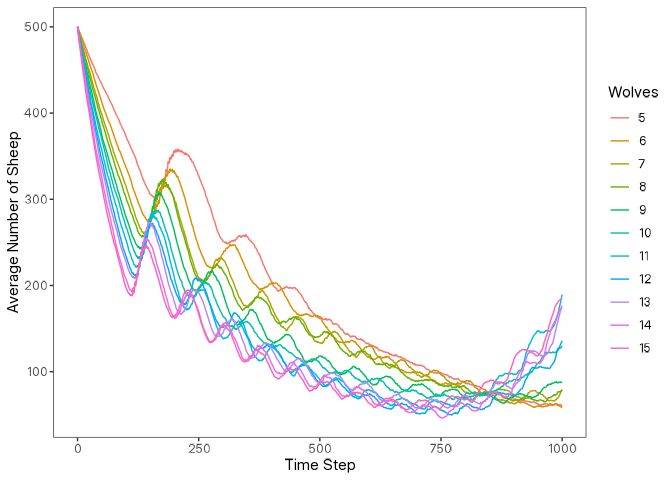
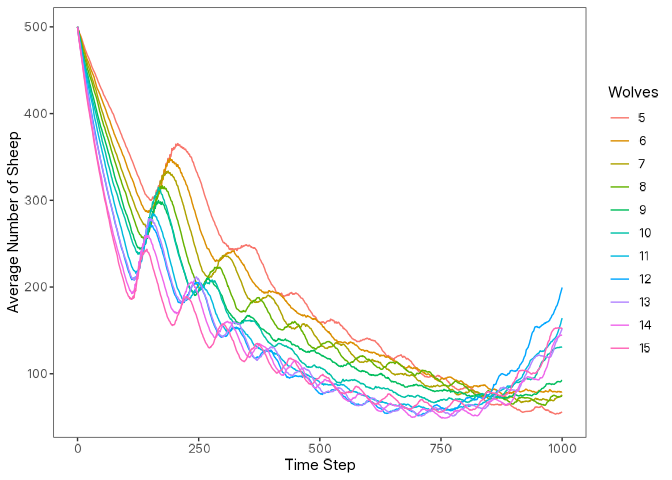
Update documentation

diff --git a/README.md b/README.md
@@ -5,35 +5,11 @@
 <!-- Install the package before rendering this file: `devtools::install()` -->
 
 <!-- badges: start -->
-[![Project Status: Active - The project has reached a stable, usable
-state and is being actively
-developed.](https://www.repostatus.org/badges/latest/active.svg)](https://www.repostatus.org/#active)
-[![CRAN Status
-Badge](https://www.r-pkg.org/badges/version-ago/logolink)](https://cran.r-project.org/package=logolink)
-[![DOI
-badge](https://img.shields.io/badge/doi-10.32614/CRAN.package.logolink-1284C5.svg)](https://doi.org/10.32614/CRAN.package.logolink)
-[![](http://cranlogs.r-pkg.org/badges/grand-total/logolink)](https://cran.r-project.org/package=logolink)
-[![R build
-status](https://github.com/danielvartan/logolink/workflows/R-CMD-check/badge.svg)](https://github.com/danielvartan/logolink/actions)
-[![CRAN
-checks](https://badges.cranchecks.info/summary/logolink.svg)](https://cran.r-project.org/web/checks/check_results_logolink.html)
-[![FAIR checklist
-badge](https://img.shields.io/badge/fairsoftwarechecklist.net--00a7d9)](https://fairsoftwarechecklist.net/v0.2/?f=31&a=32113&i=32322&r=133)
-[![](https://codecov.io/gh/danielvartan/logolink/branch/main/graph/badge.svg)](https://app.codecov.io/gh/danielvartan/logolink)
-[![GNU GPLv3
-License](https://img.shields.io/badge/license-GPLv3-bd0000.svg)](https://www.gnu.org/licenses/gpl-3.0)
-[![FAIR checklist
-badge](https://img.shields.io/badge/fairsoftwarechecklist.net--00a7d9)](https://fairsoftwarechecklist.net/v0.2/?f=31&a=32113&i=32322&r=133)
-[![fair-software.eu](https://img.shields.io/badge/fair--software.eu-%E2%97%8F%20%20%E2%97%8F%20%20%E2%97%8F%20%20%E2%97%8F%20%20%E2%97%8F-green)](https://fair-software.eu)
-[![Contributor Covenant 3.0 Code of
-Conduct](https://img.shields.io/badge/Contributor%20Covenant-3.0-4baaaa.svg)](https://www.contributor-covenant.org/version/3/0/code_of_conduct/)
-<!-- badges: end -->
-
-## Overview
+logolink 1.0.0.9000 (development version) \## Overview
 
 `logolink` is an [R](https://www.r-project.org/) package that simplifies
 setting up and running [NetLogo](https://www.netlogo.org/) simulations
-directly from R. It provides a modern, intuitive interface that follows
+from R. It provides a modern, intuitive interface that follows
 [tidyverse
 principles](https://tidyverse.tidyverse.org/articles/manifesto.html) and
 integrates seamlessly with the [tidyverse
@@ -133,7 +109,7 @@ Volterra ([1926](https://www.nature.com/articles/118558a0)). Since this
 model comes bundled with NetLogo, no download is required.
 
 We’ll use
-[`find_netlogo_home`](https://danielvartan.github.io/logolink/reference/find_netlogo_home.html)
+[`find_netlogo_home()`](https://danielvartan.github.io/logolink/reference/find_netlogo_home.html)
 function to locate the NetLogo installation directory, then build the
 path to the model file:
 
@@ -154,7 +130,7 @@ To run the model from R, we’ll need to setup an experiment. We can do
 this by setting a
 [BehaviorSpace](https://docs.netlogo.org/behaviorspace.html) experiment
 with the
-[`create_experiment`](https://danielvartan.github.io/logolink/reference/create_experiment.html)
+[`create_experiment()`](https://danielvartan.github.io/logolink/reference/create_experiment.html)
 function. This function will create a
 [BehaviorSpace](https://docs.netlogo.org/behaviorspace.html)
 [XML](https://en.wikipedia.org/wiki/XML) file that contains all the
@@ -201,7 +177,7 @@ with
 ### Running the Simulation
 
 With the experiment file created, we can now run the model using the
-[`run_experiment`](https://danielvartan.github.io/logolink/reference/run_experiment.html)
+[`run_experiment()`](https://danielvartan.github.io/logolink/reference/run_experiment.html)
 function. This function will execute the NetLogo model with the
 specified parameters and return the results as [tidy data
 frames](https://r4ds.hadley.nz/data-tidy.html).
@@ -237,7 +213,7 @@ library(dplyr)
 results |> glimpse()
 #> List of 2
 #>  $ metadata:List of 6
-#>   ..$ timestamp       : POSIXct[1:1], format: "2026-01-08 05:11:42"
+#>   ..$ timestamp       : POSIXct[1:1], format: "2026-01-08 18:42:07"
 #>   ..$ netlogo_version : chr "7.0.3"
 #>   ..$ output_version  : chr "2.0"
 #>   ..$ model_file      : chr "Wolf Sheep Simple 5.nlogox"
@@ -254,14 +230,14 @@ results |> glimpse()
 #>   ..$ energy_gain_from_sheep: num [1:110110] 5 5 5 5 5 5 5 5 5 5 ...
 #>   ..$ step                  : num [1:110110] 0 1 2 3 4 5 6 7 8 9 ...
 #>   ..$ count_wolves          : num [1:110110] 5 5 5 5 5 5 5 5 5 5 ...
-#>   ..$ count_sheep           : num [1:110110] 500 499 499 498 495 494 492 489 488 486 ...
+#>   ..$ count_sheep           : num [1:110110] 500 500 498 497 495 494 494 492 490 487 ...
 ```
 
 If you already have a file with experiment results, you can read it into
 R using the
-[`read_experiment`](https://danielvartan.github.io/logolink/reference/read_experiment.html)
+[`read_experiment()`](https://danielvartan.github.io/logolink/reference/read_experiment.html)
 function, which will produce the same output structure as
-[`run_experiment`](https://danielvartan.github.io/logolink/reference/run_experiment.html).
+[`run_experiment()`](https://danielvartan.github.io/logolink/reference/run_experiment.html).
 
 ### Analyzing the Data (Bonus Section)
 

diff --git a/NEWS.md b/NEWS.md
@@ -1,3 +1,5 @@
+# logolink 1.0.1.9000 (development version)
+
 # logolink 1.0.0
 
 ### Breaking Changes
